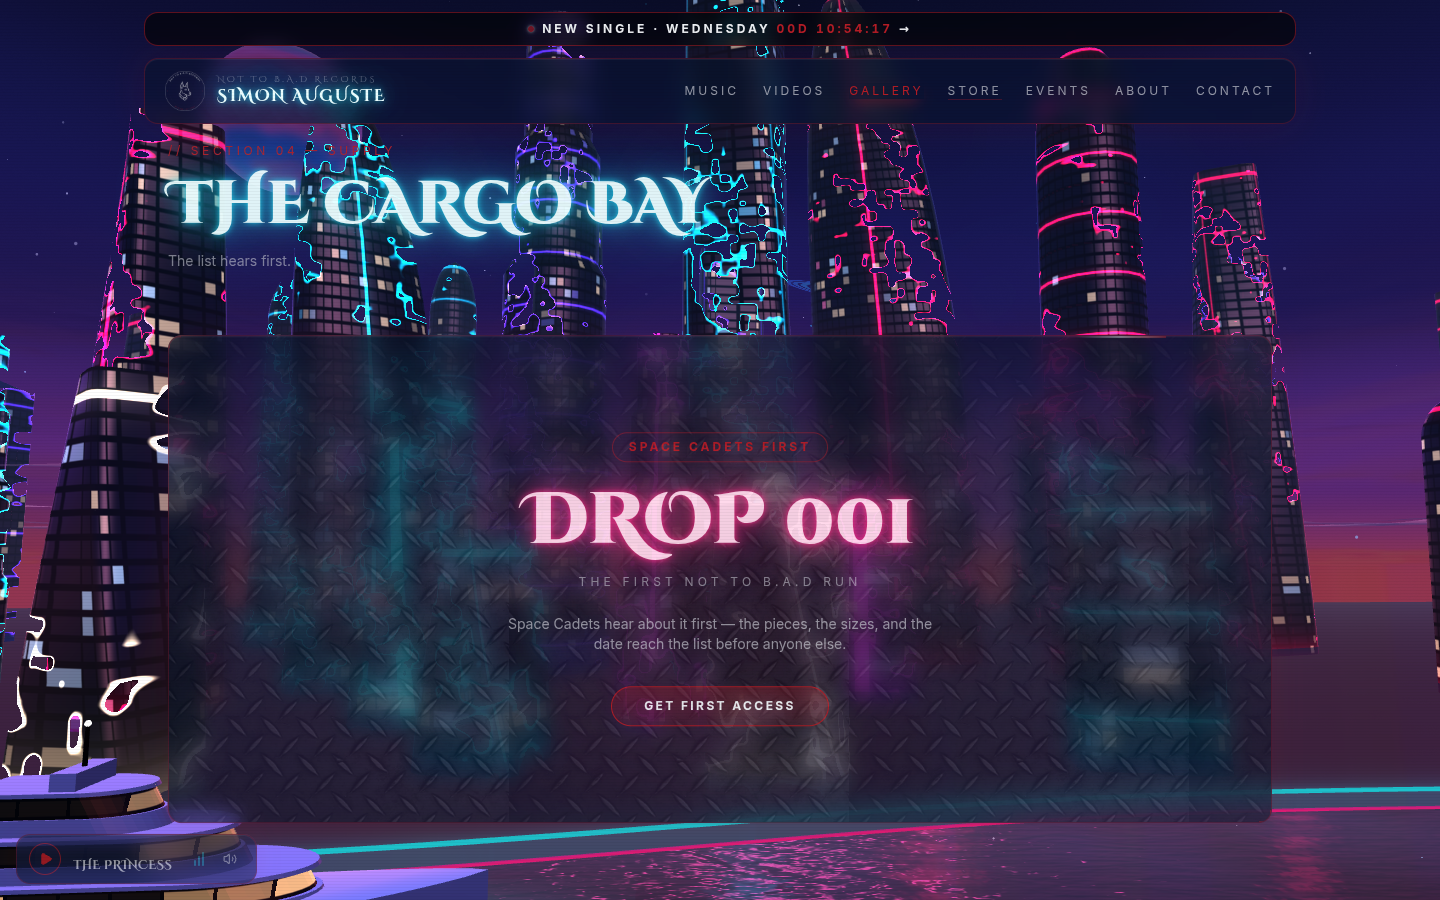
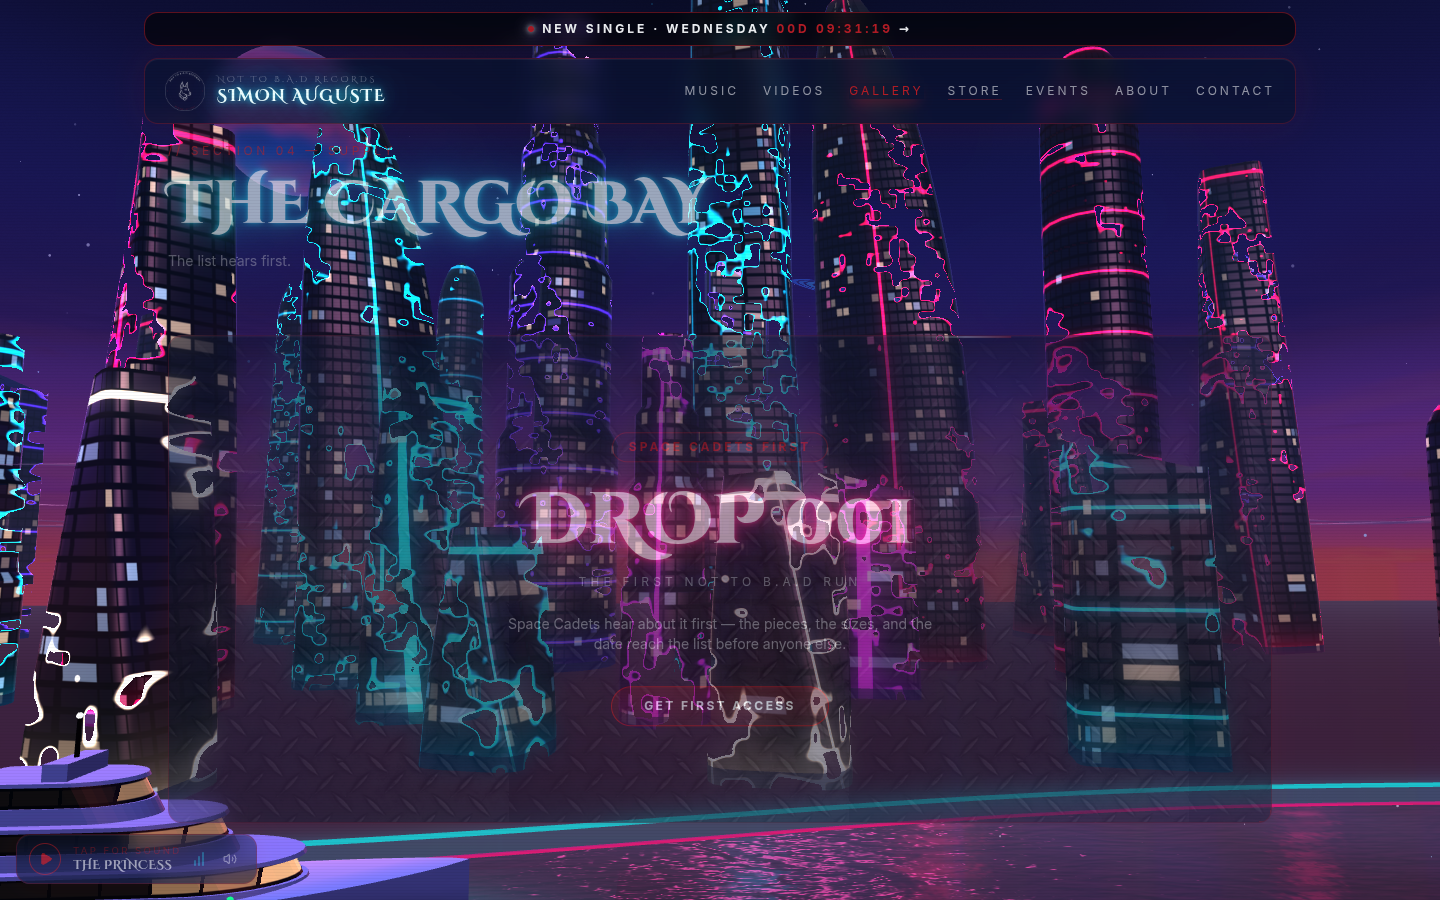
Stop /wednesday/story crashing in iPhone in-app browsers
The story card was a full 1080x1920 board shrunk with a CSS transform,
with a 160px blur over a 1300px glow and frosted-glass countdown cells.
iOS rasterizes that at full size and 3x, and in the Instagram/Safari
view controller the page process ran out of memory ('A problem
repeatedly occurred'). The card is now laid out in design pixels that
resolve to real screen pixels, the glow is a plain gradient and the story
cells skip the backdrop blur. Every box measures the same as before.

The /wednesday page's glow gets the same gradient in place of its blur.

Claude-Session: https://claude.ai/code/session_01BqghB9EY3JXAhu3KfkDg6k

diff --git a/components/wednesday/story-card.tsx b/components/wednesday/story-card.tsx
@@ -1,27 +1,32 @@
 "use client";
 
-import { useEffect, useState } from "react";
+import { useEffect, useState, type CSSProperties } from "react";
 
 import { useReleaseClock } from "@/lib/release-clock";
 import { WEDNESDAY_URL_TEXT, wednesday } from "@/lib/wednesday";
 
 import { Countdown } from "./countdown";
-
-const W = 1080;
-const H = 1920;
+import { u } from "./story-units";
 
 /**
- * A fixed 1080×1920 artboard, scaled to fit whatever screen it's opened on.
- * The top ~250px and bottom ~340px sit under the Instagram/TikTok story
- * chrome, so everything that matters lives between them.
+ * A 1080×1920 card, laid out in "design pixels" (--u) that resolve to real
+ * screen pixels, so it is drawn at the size it's shown. It used to be a
+ * full-size 1080×1920 board shrunk with a CSS transform — iOS rasterizes that
+ * at 3x before shrinking, and with the blurred glow on top the in-app
+ * browsers ran out of memory and killed the page.
+ *
+ * The top ~250 and bottom ~340 design pixels sit under the Instagram/TikTok
+ * story chrome, so everything that matters lives between them.
  */
 export function StoryCard({ initiallyReleased }: { initiallyReleased: boolean }) {
   const clock = useReleaseClock(wednesday.releaseAt, initiallyReleased);
-  const [scale, setScale] = useState(1);
+  // CSS alone sizes the card on first paint; the measured viewport then
+  // replaces it, because 100vh in an in-app browser includes its toolbars
+  const [unit, setUnit] = useState<string | null>(null);
 
   useEffect(() => {
     const fit = () =>
-      setScale(Math.min(window.innerWidth / W, window.innerHeight / H));
+      setUnit(`${Math.min(window.innerWidth / 1080, window.innerHeight / 1920)}px`);
     fit();
     window.addEventListener("resize", fit);
     return () => window.removeEventListener("resize", fit);
@@ -30,20 +35,33 @@ export function StoryCard({ initiallyReleased }: { initiallyReleased: boolean })
   const out = clock.released;
 
   return (
-    <div className="fixed inset-0 flex items-center justify-center overflow-hidden bg-black">
+    <div
+      className="fixed inset-0 flex items-center justify-center overflow-hidden bg-black"
+      style={{ "--u": unit ?? "min(calc(100vw / 1080), calc(100vh / 1920))" } as CSSProperties}
+    >
       <div
         className="relative shrink-0 overflow-hidden bg-obsidian text-center text-chrome"
-        style={{ width: W, height: H, transform: `scale(${scale})` }}
+        style={{ width: u(1080), height: u(1920) }}
       >
+        {/* the blood ember: a plain gradient — no blur filter, no extra layer */}
         <div
           aria-hidden
-          className="absolute left-1/2 top-[38%] h-[1300px] w-[1300px] -translate-x-1/2 -translate-y-1/2 rounded-full opacity-[0.28] blur-[160px]"
-          style={{ background: "radial-gradient(circle, #b41c25 0%, transparent 70%)" }}
+          className="absolute inset-0"
+          style={{
+            background:
+              "radial-gradient(circle at 50% 38%, rgba(180,28,37,0.30) 0%, rgba(180,28,37,0.16) 22%, rgba(180,28,37,0.05) 42%, transparent 60%)",
+          }}
         />
         <div aria-hidden className="scanlines absolute inset-0 opacity-60" />
 
-        <div className="relative flex h-full flex-col items-center px-[90px] pt-[230px]">
-          <p className="font-body text-[26px] tracking-[0.45em] text-steel">
+        <div
+          className="relative flex h-full flex-col items-center"
+          style={{ padding: `${u(230)} ${u(90)} 0` }}
+        >
+          <p
+            className="font-body text-steel"
+            style={{ fontSize: u(26), letterSpacing: "0.45em" }}
+          >
             SIMON AUGUSTE
           </p>
 
@@ -53,26 +71,50 @@ export function StoryCard({ initiallyReleased }: { initiallyReleased: boolean })
             width={680}
             height={680}
             alt=""
-            className="mt-10 h-[680px] w-[680px] rounded-xl border-2 border-white/10 shadow-[0_50px_140px_-30px_rgba(180,28,37,0.8)]"
+            className="border-white/10"
+            style={{
+              marginTop: u(40),
+              width: u(680),
+              height: u(680),
+              borderWidth: u(2),
+              borderRadius: u(12),
+              boxShadow: `0 ${u(40)} ${u(90)} ${u(-30)} rgba(180,28,37,0.8)`,
+            }}
           />
 
-          <p className="mt-12 text-[30px] uppercase tracking-[0.35em] text-blood">
+          <p
+            className="uppercase text-blood"
+            style={{ marginTop: u(48), fontSize: u(30), letterSpacing: "0.35em" }}
+          >
             {out ? "// OUT NOW" : `// ${wednesday.releaseLabel}`}
           </p>
 
           {out ? (
-            <h1 className="font-display text-neon-pink mt-8 text-[120px] font-black uppercase leading-none">
+            <h1
+              className="font-display text-neon-pink font-black uppercase leading-none"
+              style={{ marginTop: u(32), fontSize: u(120) }}
+            >
               OUT NOW
             </h1>
           ) : (
             <Countdown
               size="story"
               remaining={clock.now === null ? null : clock.remaining}
-              className="mt-8 w-full"
+              className="w-full"
+              style={{ marginTop: u(32) }}
             />
           )}
 
-          <p className="mt-10 rounded-full border-2 border-blood/70 bg-black/40 px-10 py-4 text-[34px] font-bold tracking-[0.08em] text-[#ebeef1]">
+          <p
+            className="rounded-full border-blood/70 bg-black/40 font-bold text-[#ebeef1]"
+            style={{
+              marginTop: u(40),
+              padding: `${u(16)} ${u(40)}`,
+              borderWidth: u(2),
+              fontSize: u(34),
+              letterSpacing: "0.08em",
+            }}
+          >
             {WEDNESDAY_URL_TEXT}
           </p>
         </div>

diff --git a/components/wednesday/countdown.tsx b/components/wednesday/countdown.tsx
@@ -1,5 +1,9 @@
+import type { CSSProperties } from "react";
+
 import { cn } from "@/lib/utils";
 import { splitCountdown } from "@/lib/release-clock";
+
+import { u } from "./story-units";
 
 const UNITS = [
   ["days", "DAYS"],
@@ -11,15 +15,19 @@ const UNITS = [
 /**
  * DD : HH : MM : SS in four HUD cells. `remaining` null renders dashes — the
  * static HTML can't know the time, so the digits arrive with the script.
+ * The story size is measured in the story card's design pixels (--u) and
+ * skips the glass blur, which is costly at story size on phones.
  */
 export function Countdown({
   remaining,
   size = "page",
   className,
+  style,
 }: {
   remaining: number | null;
   size?: "page" | "story";
   className?: string;
+  style?: CSSProperties;
 }) {
   const parts = remaining === null ? null : splitCountdown(remaining);
   const story = size === "story";
@@ -34,9 +42,10 @@ export function Countdown({
       }
       className={cn(
         "grid grid-cols-[1fr_auto_1fr_auto_1fr_auto_1fr] items-start",
-        story ? "gap-x-3" : "gap-x-1.5 sm:gap-x-3",
+        !story && "gap-x-1.5 sm:gap-x-3",
         className,
       )}
+      style={story ? { columnGap: u(12), ...style } : style}
     >
       {UNITS.map(([key, label], i) => (
         <div key={key} className="contents">
@@ -45,24 +54,29 @@ export function Countdown({
               aria-hidden
               className={cn(
                 "self-center font-bold text-blood/70",
-                story ? "-mt-12 text-6xl" : "-mt-5 text-2xl sm:text-3xl",
+                !story && "-mt-5 text-2xl sm:text-3xl",
               )}
+              style={story ? { marginTop: u(-48), fontSize: u(60), lineHeight: u(60) } : undefined}
             >
               :
             </span>
           ) : null}
           <div
             className={cn(
-              "glass-panel hud-corners flex flex-col items-center",
-              story ? "px-2 pb-6 pt-8" : "px-1 pb-2.5 pt-3 sm:pb-3 sm:pt-4",
+              "hud-corners flex flex-col items-center",
+              story
+                ? "rounded-xl border border-blood/30 bg-[rgba(8,18,43,0.72)]"
+                : "glass-panel px-1 pb-2.5 pt-3 sm:pb-3 sm:pt-4",
             )}
+            style={story ? { padding: `${u(32)} ${u(8)} ${u(24)}` } : undefined}
           >
             <span
               aria-hidden
               className={cn(
                 "font-bold tabular-nums leading-none text-[#ebeef1] [text-shadow:0_0_18px_rgba(180,28,37,.55)]",
-                story ? "text-[7.5rem]" : "text-4xl sm:text-5xl",
+                !story && "text-4xl sm:text-5xl",
               )}
+              style={story ? { fontSize: u(120), lineHeight: u(180) } : undefined}
             >
               {parts ? parts[key] : "--"}
             </span>
@@ -70,8 +84,9 @@ export function Countdown({
               aria-hidden
               className={cn(
                 "uppercase text-blood",
-                story ? "mt-4 text-2xl tracking-[0.4em]" : "mt-2 text-[0.6rem] tracking-[0.3em]",
+                story ? "tracking-[0.4em]" : "mt-2 text-[0.6rem] tracking-[0.3em]",
               )}
+              style={story ? { marginTop: u(16), fontSize: u(24), lineHeight: u(32) } : undefined}
             >
               {label}
             </span>

diff --git a/components/wednesday/release-page.tsx b/components/wednesday/release-page.tsx
@@ -20,8 +20,13 @@ export function ReleasePage({ initiallyReleased }: { initiallyReleased: boolean 
     <div className="relative min-h-[100svh] overflow-hidden bg-obsidian text-chrome">
       <div
         aria-hidden
-        className="pointer-events-none absolute left-1/2 top-[18%] h-[34rem] w-[34rem] -translate-x-1/2 rounded-full opacity-[0.2] blur-[110px]"
-        style={{ background: "radial-gradient(circle, #b41c25 0%, transparent 70%)" }}
+        // a soft gradient, not a blur filter: blurring a large element costs
+        // a lot of memory in the Instagram/TikTok in-app browsers
+        className="pointer-events-none absolute left-1/2 top-[18%] h-[56rem] w-[56rem] -translate-x-1/2 -translate-y-[11rem]"
+        style={{
+          background:
+            "radial-gradient(circle, rgba(180,28,37,0.2) 0%, rgba(180,28,37,0.1) 22%, rgba(180,28,37,0.03) 40%, transparent 58%)",
+        }}
       />
 
       <main className="relative z-10 mx-auto flex w-full max-w-md flex-col items-center px-5 pb-16 pt-8 text-center sm:max-w-lg sm:pt-12">

diff --git a/components/wednesday/story-units.ts b/components/wednesday/story-units.ts
@@ -1,0 +1,2 @@
+/** n design pixels of the 1080-wide story card, in real screen pixels (--u). */
+export const u = (n: number) => `calc(${n} * var(--u))`;
